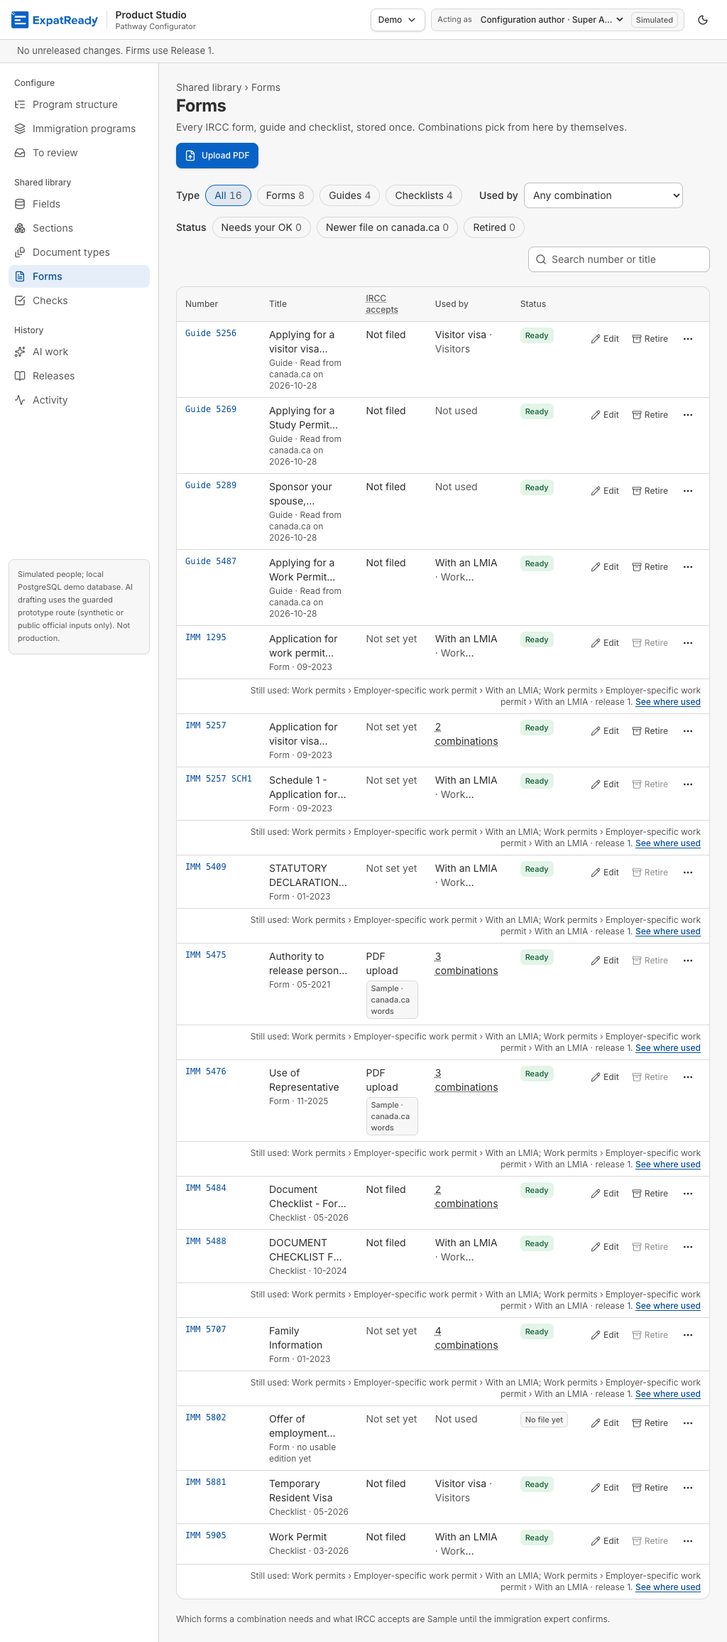
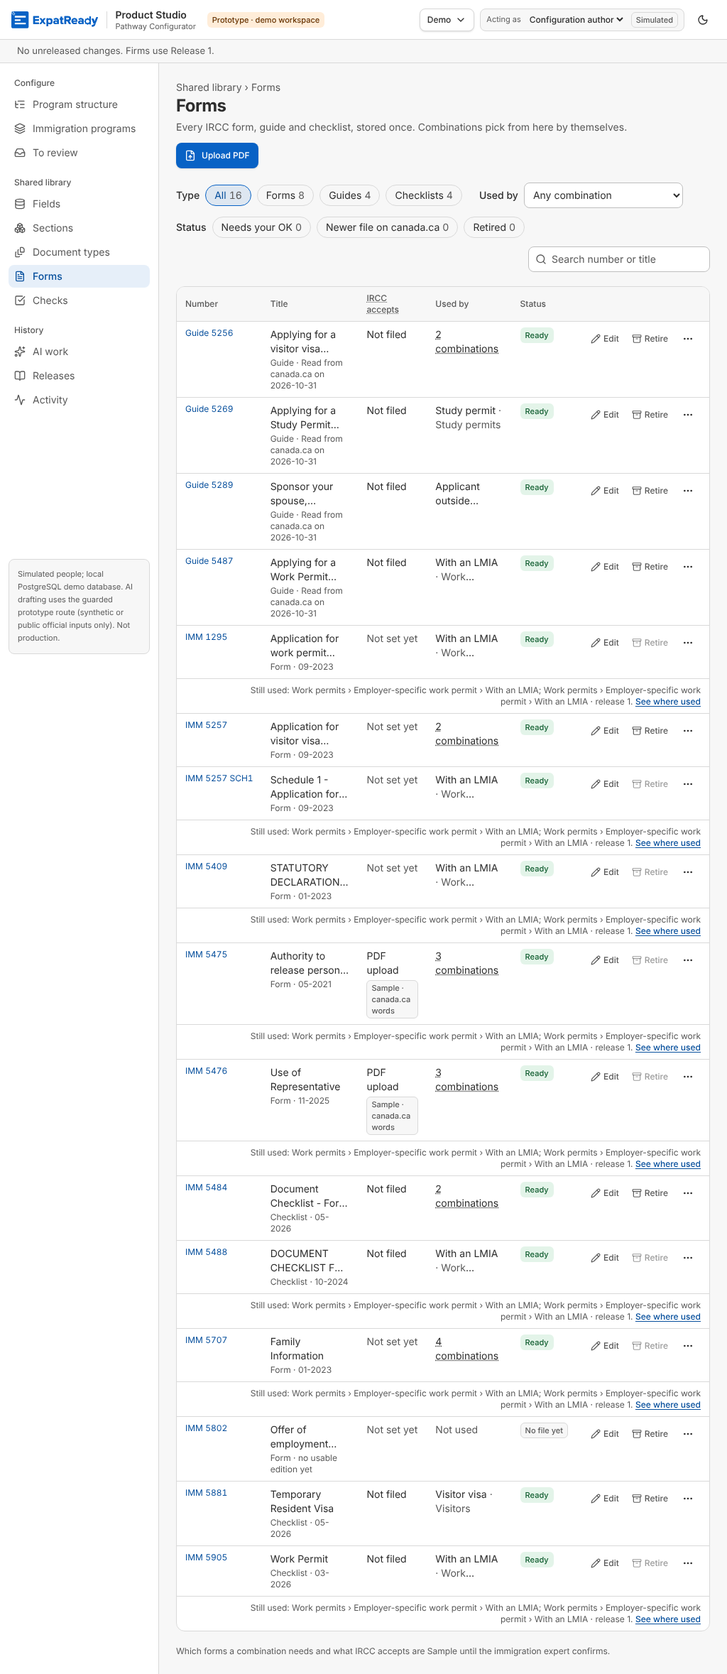
forms: N8 — DV-d1-1 Used-by count, DV-d1-2 loading list role, F2 official-pages confirm (new table)
* DV-d1-1 (Devin D1): "2 combinations" in Shared library › Forms › Used by read as struck through (a dotted underline).
  It is a link-style button now (solid underline on hover, like Number), opening the form's drawer; the names stay in
  its tip.
* DV-d1-2 (Devin D1): the loading list was a div with aria-label and no role (axe aria-prohibited-attr while the list
  loads, hence 1440 px only): role="status", aria-busy.
* F2 (setup checklist step 1, P-156 (2), P-176, plan.md W1-setup-checklist): a combination's official page. The rules
  propose from what is attached (one IRCC apply page "Web page" → confirm_pages on the author's tier; none or several,
  or another page chosen → choose_pages on the expert's tier; guide web pages may be chosen; PDF office instructions are
  not pages). GET /combinations/:id/official-pages; POST …/official-pages/confirm stores which page, who and the tier,
  refused by engine/setup-checklist.ts mayAct (403 in words), audited. officialPagesOf (programs.ts) now reads it, so the
  checklist's step 1 shows Confirm/Choose and turns done once confirmed. New table combination_official_pages (only
  confirmations are stored; the proposal is worked out on read, so no back-fill and nothing to go stale); demo reset
  clears it.
Checks: check_official_pages 25/25 (new), check_forms_s4_library_browser 73/73 (DV-d1 steps fail on the old page),
check_setup_checklist 54/54, check_screen01_rules 67/67, check_screen01_api 135/135, graph G1–G6 unchanged. US$0.
[…]

diff --git a/ai-workers/problem-1-pathway-setup-and-form-filling/prototype/studio/tests/check_official_pages.ts b/ai-workers/problem-1-pathway-setup-and-form-filling/prototype/studio/tests/check_official_pages.ts
@@ -1,0 +1,84 @@
+// F2 (forms lane, N8; P-156 (2), P-176, P-161 (3); C11.10 step 1): a combination's official page. The rules propose from
+// what is attached (one apply page → the configuration author confirms; none or several → the immigration expert chooses);
+// POST /combinations/:id/official-pages/confirm stores who confirmed which page and on which tier, refused by the setup
+// checklist's own duty rule; the checklist (GET /combinations/:id/summary, the catalogue) reads it. A passing and a failing
+// case per rule, on an isolated copy with the sample loaded. No AI (US$0).
+//   zsh studio/tools/isolated.sh forms_op 4450 start && tsx studio/tests/check_official_pages.ts 4450 xr_studio_forms_op
+import { execFileSync } from "node:child_process";
+import { confirmationOf, officialPagesFrom } from "../engine/official-pages.ts";
+
+const PORT = Number(process.argv[2] ?? 4450), DB = process.argv[3] ?? "xr_studio_forms_op";
+let pass = 0, fail = 0;
+const ok = (name: string, c: unknown, detail?: unknown) => { c ? pass++ : fail++; console.log(`${c ? "PASS" : "FAIL"}  ${name}${!c && detail !== undefined ? ` — ${JSON.stringify(detail).slice(0, 300)}` : ""}`); };
+type Res = { status: number; body: any }; // eslint-disable-line @typescript-eslint/no-explicit-any -- test responses are read loosely
+const call = async (method: string, path: string, body?: unknown, actor: string | null = "user-A"): Promise<Res> => {
+  const r = await fetch(`http://localhost:${PORT}/api${path}`, { method, headers: { ...(actor ? { "x-actor": actor } : {}), "content-type": "application/json" }, body: body === undefined ? undefined : JSON.stringify(body) });
+  const t = await r.text(); let j: unknown = t; try { j = JSON.parse(t); } catch { /* not JSON */ }
+  return { status: r.status, body: j };
+};
+const sql = (q: string) => execFileSync("/opt/homebrew/opt/postgresql@18/bin/psql", [`postgresql://xr_studio@127.0.0.1:54329/${DB}`, "-Atc", q], { encoding: "utf8" }).trim();
+const msg = (r: Res) => String(r.body?.detail ?? r.body?.message ?? "");
+
+(async () => {
+  // ── the rule, pure
+  const web = (id: string) => ({ id, kind: "Web page", title: id, file: `${id}.html` });
+  ok("C11.10 F2 pass: no page attached → no record yet", officialPagesFrom([{ id: "f", kind: "Form", title: "IMM 5257", file: "imm5257e.pdf" }], null).state === "no_record");
+  ok("C11.10 F2 fail: an office's PDF instructions are not a page (still no record)", officialPagesFrom([{ id: "i", kind: "Instructions", title: "IMM 5905", file: "IMM5905E.pdf" }], null).state === "no_record");
+  const one = officialPagesFrom([web("a"), { id: "g", kind: "Instructions", title: "Guide", file: "guide.html" }], null);
+  ok("C11.10 F2 pass: one apply page → proposed, 1 match (the author's to confirm)", one.state === "proposed" && one.matches === 1 && confirmationOf([web("a")], "a").tier === "author" && confirmationOf([web("a")], "a").kind === "confirm_pages");
+  ok("C11.10 F2 fail: two apply pages → the expert chooses (choose_pages, expert tier)", confirmationOf([web("a"), web("b")], "a").tier === "expert" && confirmationOf([web("a"), web("b")], "a").kind === "choose_pages");
+  ok("C11.10 F2 fail: the rules' one match passed over for another page → the expert's choice", confirmationOf([web("a"), { id: "g", kind: "Instructions", title: "Guide", file: "guide.html" }], "g").tier === "expert");
+  ok("C11.10 F2 pass: a confirmation counts while its page is attached", officialPagesFrom([web("a")], { attachmentId: "a", confirmedBy: "user-A", confirmedAs: "author" }).state === "confirmed");
+  ok("C11.10 F2 fail: a confirmation whose page is gone counts as none (proposed again)", officialPagesFrom([web("b")], { attachmentId: "a", confirmedBy: "user-A", confirmedAs: "author" }).state === "proposed");
+
+  // ── the API on the sample (from a reset, so a run before this one leaves nothing behind)
+  await call("POST", "/demo/reset", { confirm: "RESET" });
+  await call("POST", "/demo/load");
+  const id = (key: string) => sql(`select id from combination where combination_key='${key}'`);
+  const wp = id("wp.family"), sp = id("sp.student");
+  let r = await call("GET", `/combinations/${wp}/official-pages`);
+  const match = r.body?.candidates?.find((c: any) => c.match), other = r.body?.candidates?.find((c: any) => !c.match); // eslint-disable-line @typescript-eslint/no-explicit-any
+  ok("C11.10 F2 pass: GET answers the rules' proposal (one apply page on Work permit, family) and the pages to choose from, the match first", r.status === 200 && r.body.pages.state === "proposed" && r.body.pages.matches === 1 && r.body.candidates[0].match === true && !!other && !r.body.candidates.some((c: any) => /\.pdf$/i.test(c.title) || /IMM 5905/.test(c.title)), r.body); // eslint-disable-line @typescript-eslint/no-explicit-any
+  let sum = await call("GET", `/combinations/${wp}/summary`);
+  const step1 = (s: Res) => s.body?.setup?.steps?.find((x: any) => x.key === "pages"); // eslint-disable-line @typescript-eslint/no-explicit-any
+  ok("C11.10 F2 pass: the checklist reads the record: step 1 open with 'Confirm the checklist page' (before: no record, no item)", step1(sum)?.open?.some((i: any) => i.kind === "confirm_pages" && i.tier === "author"), step1(sum)); // eslint-disable-line @typescript-eslint/no-explicit-any
+  for (const [who, name] of [["user-B", "approver"], ["user-O", "case officer"], ["user-P", "client"]]) {
+    r = await call("POST", `/combinations/${wp}/official-pages/confirm`, { attachmentId: match.id }, who);
+    ok(`C11.10 F2 fail: the ${name} cannot confirm the official page (403), nothing stored`, r.status === 403 && sql(`select count(*) from combination_official_pages where combination_id='${wp}'`) === "0", { status: r.status, m: msg(r) });
+  }
+  r = await call("POST", `/combinations/${wp}/official-pages/confirm`, { attachmentId: other.id }, "user-A");
+  ok("C11.10 F2 fail (P-176): the author cannot pass over the rules' one match for another page: that is the expert's choice (403)", r.status === 403 && /immigration expert chooses it/.test(msg(r)), { status: r.status, m: msg(r) });
+  r = await call("POST", `/combinations/${wp}/official-pages/confirm`, { attachmentId: sql(`select id from source_attachment where combination_id='${sp}' limit 1`) }, "user-A");
+  ok("C11.10 F2 fail: a page of another combination is refused (400), nothing stored", r.status === 400 && /not one of this combination's attached pages/.test(msg(r)), { status: r.status, m: msg(r) });
+  r = await call("POST", `/combinations/${wp}/official-pages/confirm`, { attachmentId: match.id, extra: 1 }, "user-A");
+  ok("C11.10 F2 fail: an unknown field or no page is refused in words (400)", r.status === 400 && /field the server does not know/.test(msg(r)) && (await call("POST", `/combinations/${wp}/official-pages/confirm`, {}, "user-A")).status === 400, msg(r));
+  r = await call("POST", `/combinations/${wp}/official-pages/confirm`, { attachmentId: match.id }, null);
+  ok("C11.10 F2 fail: nobody (no person named) cannot confirm (401)", r.status === 401, r.status);
+  r = await call("POST", `/combinations/${wp}/official-pages/confirm`, { attachmentId: match.id }, "user-A");
+  const row = sql(`select confirmed_by || '|' || confirmed_as || '|' || matches || '|' || attachment_id from combination_official_pages where combination_id='${wp}'`);
+  ok("C11.10 F2 pass: the author confirms the rules' one match: stored with who, the tier (author) and the page", r.status === 201 && r.body.pages.state === "confirmed" && row === `user-A|author|1|${match.id}`, { status: r.status, row });
+  ok("C11.10 F2 pass: the confirmation is in the audit trail with the page and the tier", /confirmed the official page of .*Work permit outside: forms and documents page.*configuration author tier, sure/.test(sql(`select summary from audit_event where action='confirmed' and entity='official page' and entity_key='${wp}'`)));
+  sum = await call("GET", `/combinations/${wp}/summary`);
+  ok("C11.10 F2 pass: step 1 is done on the checklist, confirmed by the author tier", step1(sum)?.state === "done" && step1(sum)?.confirmed?.as === "author" && !step1(sum)?.open?.length, step1(sum));
+  // The expert's choice where the rules are not sure.
+  r = await call("GET", `/combinations/${sp}/official-pages`);
+  const spPage = r.body?.candidates?.[0];
+  ok("C11.10 F2 pass: no apply page on Study permit → proposed with 0 matches, the expert's item on the checklist", r.body?.pages?.state === "proposed" && r.body.pages.matches === 0 && step1(await call("GET", `/combinations/${sp}/summary`))?.open?.some((i: any) => i.kind === "choose_pages" && i.tier === "expert"), r.body); // eslint-disable-line @typescript-eslint/no-explicit-any
+  r = await call("POST", `/combinations/${sp}/official-pages/confirm`, { attachmentId: spPage.id }, "user-A");
+  ok("C11.10 F2 fail (P-176): the author cannot choose where the rules are not sure (403, nothing stored)", r.status === 403 && sql(`select count(*) from combination_official_pages where combination_id='${sp}'`) === "0", { status: r.status, m: msg(r) });
+  r = await call("POST", `/combinations/${sp}/official-pages/confirm`, { attachmentId: spPage.id }, "user-C");
+  ok("C11.10 F2 pass: the immigration expert chooses it: stored on the expert tier", r.status === 201 && sql(`select confirmed_by || '|' || confirmed_as || '|' || matches from combination_official_pages where combination_id='${sp}'`) === "user-C|expert|0", { status: r.status, m: msg(r) });
+  // A confirmed page removed from the combination: the record no longer counts.
+  sql(`delete from source_attachment where id='${match.id}'`);
+  r = await call("GET", `/combinations/${wp}/official-pages`);
+  ok("C11.10 F2 fail: once the confirmed page is no longer attached, step 1 is open again (never confirmed on a missing page)", r.body?.pages?.state === "proposed" && r.body.record === null, r.body?.pages);
+  r = await call("GET", "/combinations/00000000-0000-0000-0000-000000000000/official-pages");
+  ok("C11.10 F2 fail: an unknown combination is 404", r.status === 404, r.status);
+  // A demo reset clears the records.
+  const before = sql("select count(*) from combination_official_pages");
+  r = await call("POST", "/demo/reset", { confirm: "RESET" });
+  ok("C11.10 F2 pass: a demo reset clears the confirmations", before === "2" && r.status < 300 && sql("select count(*) from combination_official_pages") === "0", { before, status: r.status, m: msg(r) });
+  await call("POST", "/demo/load");
+  console.log(`\n${pass} passed, ${fail} failed`);
+  process.exit(fail ? 1 : 0);
+})().catch((e) => { console.log(`FAIL  the check stopped: ${(e as Error).stack}`); process.exit(1); });

diff --git a/ai-workers/problem-1-pathway-setup-and-form-filling/prototype/studio/api/src/official-pages.ts b/ai-workers/problem-1-pathway-setup-and-form-filling/prototype/studio/api/src/official-pages.ts
@@ -1,0 +1,79 @@
+// F2 (forms lane, N8; P-156 (2), P-176; setup checklist step 1): a combination's official page. GET answers the rules'
+// proposal and the pages a person may choose; POST …/confirm stores who confirmed which page and on which tier, refused by
+// the checklist's own duty rule (engine/setup-checklist.ts mayAct): the rules' one match is the author's (or the expert's),
+// any other choice the immigration expert's alone. officialPagesOf is the one reader the checklist uses. US$0, no AI.
+import { Body, Controller, Get, Headers, HttpException, HttpStatus, Inject, Injectable, Param, Post } from "@nestjs/common";
+import { z } from "zod";
+import { confirmationOf, isApplyPage, isPage, officialPagesFrom, type PageSource } from "../../engine/official-pages.ts";
+import { mayAct, type OfficialPages } from "../../engine/setup-checklist.ts";
+import type { Tier } from "../../contracts/setup-checklist.ts";
+import { actorOf, Audit, Db, Workspace, type Actor } from "./core.ts";
+
+type H = string | undefined;
+const problem = (status: number, title: string, detail: string) =>
+  new HttpException({ type: `https://expatready.local/problems/${title.toLowerCase().replace(/[^a-z]+/g, "-")}`, title, status, detail }, status);
+
+export const ConfirmPages = z.strictObject({ attachmentId: z.string({ error: "Choose the page to confirm." }).uuid("Choose one of this combination's pages.") }, { error: (i) => (i.code === "unrecognized_keys" ? "This confirmation carries a field the server does not know." : undefined) });
+
+const sourceOf = (a: { id: string; kind: string; edition: string | null; fileName: string }): PageSource => ({ id: a.id, kind: a.kind, title: a.edition ?? a.fileName, file: a.fileName });
+
+/** Step 1 for each combination, read from its attached pages and its stored confirmation (one query each). */
+export async function officialPagesOf(db: Pick<Db, "sourceAttachment" | "officialPagesRecord">, ids: string[]): Promise<Map<string, OfficialPages>> {
+  if (!ids.length) return new Map();
+  const [atts, recs] = await Promise.all([
+    db.sourceAttachment.findMany({ where: { combinationId: { in: ids }, kind: { in: ["Web page", "Instructions"] } }, select: { id: true, combinationId: true, kind: true, edition: true, fileName: true } }),
+    db.officialPagesRecord.findMany({ where: { combinationId: { in: ids } } }),
+  ]);
+  const by = new Map<string, PageSource[]>();
+  for (const a of atts) by.set(a.combinationId, [...(by.get(a.combinationId) ?? []), sourceOf(a)]);
+  const rec = new Map(recs.map((r) => [r.combinationId, { attachmentId: r.attachmentId, confirmedBy: r.confirmedBy, confirmedAs: r.confirmedAs as Tier }]));
+  return new Map(ids.map((id) => [id, officialPagesFrom(by.get(id) ?? [], rec.get(id) ?? null)]));
+}
+
+@Injectable()
+export class OfficialPagesService {
+  constructor(@Inject(Db) private readonly db: Db, @Inject(Audit) private readonly audit: Audit, @Inject(Workspace) private readonly ws: Workspace) {}
+
+  private async load(combinationId: string) {
+    const workspaceId = await this.ws.id();
+    const c = await this.db.combination.findFirst({ where: { id: combinationId, workspaceId }, select: { id: true, label: true, attachments: { select: { id: true, kind: true, edition: true, fileName: true }, orderBy: { createdAt: "asc" } } } });
+    if (!c) throw problem(404, "Not found", "This combination no longer exists.");
+    const sources = c.attachments.map(sourceOf).filter(isPage);
+    const record = await this.db.officialPagesRecord.findUnique({ where: { combinationId } });
+    return { workspaceId, c, sources, record };
+  }
+
+  /** GET: the step's state, the pages a person may choose (the rules' matches first) and the stored confirmation. */
+  async get(combinationId: string) {
+    const { sources, record } = await this.load(combinationId);
+    const pages = officialPagesFrom(sources, record ? { attachmentId: record.attachmentId, confirmedBy: record.confirmedBy, confirmedAs: record.confirmedAs as Tier } : null);
+    return { pages, candidates: [...sources.filter(isApplyPage), ...sources.filter((s) => !isApplyPage(s))].map((s) => ({ ...s, match: isApplyPage(s), confirmed: pages.state === "confirmed" && record?.attachmentId === s.id })), record: pages.state === "confirmed" ? record : null };
+  }
+
+  /** POST confirm: one page of this combination, by a person whose duty covers the item (P-176), stored with the tier. */
+  async confirm(actor: Actor, combinationId: string, body: unknown) {
+    const b = ConfirmPages.safeParse(body ?? {});
+    if (!b.success) throw problem(400, "Not confirmed", b.error.issues[0]?.message ?? "Choose the page to confirm.");
+    const { workspaceId, c, sources } = await this.load(combinationId);
+    const page = sources.find((s) => s.id === b.data.attachmentId);
+    if (!page) throw problem(400, "Not one of its pages", "That is not one of this combination's attached pages (an IRCC apply page or a guide page). Choose one of them.");
+    const item = confirmationOf(sources, page.id);
+    if (!mayAct({ kind: item.kind, tier: item.tier }, { id: actor.id, duties: actor.duties as readonly string[] })) {
+      throw problem(403, "Not yours to confirm", item.tier === "author"
+        ? `${actor.name} (simulated) cannot confirm the official page: the configuration author or the immigration expert confirms it.`
+        : `The rules did not find exactly one apply page here (${item.matches ? `${item.matches} match` : "none matches"}${item.matches === 1 ? ", and another page was chosen" : ""}), so the immigration expert chooses it (P-176). ${actor.name} (simulated) does not hold that duty.`);
+    }
+    const data = { attachmentId: page.id, matches: item.matches, confirmedBy: actor.id, confirmedAs: item.tier, confirmedAt: new Date() };
+    const saved = await this.db.officialPagesRecord.upsert({ where: { combinationId }, create: { workspaceId, combinationId, ...data }, update: data });
+    await this.audit.log(workspaceId, actor.id, "confirmed", "official page", combinationId, `${actor.name} confirmed the official page of "${c.label}": ${page.title} (${item.tier === "author" ? "the rules found exactly this page; configuration author tier, sure" : `chosen by the immigration expert${item.matches === 1 ? " over the rules' one match" : item.matches ? ` among ${item.matches} matches` : "; the rules found no apply page"}; not sure`})`, { attachment_id: page.id, matches: item.matches, confirmed_as: item.tier }, combinationId);
+    return { pages: { state: "confirmed" as const, by: saved.confirmedBy, as: saved.confirmedAs as Tier }, record: saved };
+  }
+}
+
+@Controller("api")
+export class OfficialPagesController {
+  constructor(@Inject(OfficialPagesService) private readonly s: OfficialPagesService) {}
+  @Get("combinations/:id/official-pages") get(@Param("id") id: string) { return this.s.get(id); }
+  @Post("combinations/:id/official-pages/confirm") confirm(@Headers("x-actor") a: H, @Param("id") id: string, @Body() b: unknown) { return this.s.confirm(actorOf(a), id, b); }
+}
+

diff --git a/ai-workers/problem-1-pathway-setup-and-form-filling/prototype/studio/web/src/pages/library-forms.tsx b/ai-workers/problem-1-pathway-setup-and-form-filling/prototype/studio/web/src/pages/library-forms.tsx
@@ -111,7 +111,7 @@ export function FormsPage() {
           </div>
           <label className="relative ml-auto"><Search className="pointer-events-none absolute left-2.5 top-2.5 size-4 text-text-muted" aria-hidden /><Input type="search" aria-label="Search number or title" placeholder="Search number or title" value={q} maxLength={80} onChange={(e) => setQ(e.target.value)} className="w-64 pl-8" /></label>
         </div>
-        {lib.isLoading ? <div className="space-y-2" aria-label="Loading forms">{[0, 1, 2, 3].map((i) => <Skeleton key={i} className="h-10 w-full" />)}</div>
+        {lib.isLoading ? <div className="space-y-2" role="status" aria-busy="true" aria-label="Loading forms">{/* DV-d1-2 (N8): a label needs a role (axe aria-prohibited-attr) */}{[0, 1, 2, 3].map((i) => <Skeleton key={i} className="h-10 w-full" />)}</div>
           : lib.isError ? <Notice tone="danger" title="The forms could not be loaded" action={<Button size="sm" variant="secondary" onClick={() => void lib.refetch()}>Try again</Button>}>{(lib.error as Error).message}</Notice>
           : !lib.data?.rows.length ? (filtered
             ? <EmptyState title="No form matches" description="Nothing in the library matches these filters. Clear a filter or search for another number or title." action={<Button variant="secondary" onClick={() => { setType(""); setUsedBy(""); setStatus(""); setQ(""); }}>Clear filters</Button>} />
@@ -126,7 +126,7 @@ export function FormsPage() {
                   <td className="hidden xl:table-cell">{TYPE_WORD[r.type]}</td>
                   <td className="hidden xl:table-cell">{editionText(r) ?? <span className="text-text-muted">no usable edition yet</span>}</td>
                   <td className="max-w-36 xl:max-w-none"><AcceptsCell r={r} /></td>
-                  <td className="max-w-48 xl:max-w-72">{r.used_by.length === 0 ? <span className="text-text-muted">Not used</span> : r.used_by.length === 1 ? <TrailText label={r.used_by[0].label} /> : <Tip tip={r.used_by.map((u) => u.label).join(", ")}><span tabIndex={0} className="underline decoration-dotted rounded outline-none focus-visible:ring-[3px] focus-visible:ring-ring/50">{r.used_by.length} combinations</span></Tip>}</td>
+                  <td className="max-w-48 xl:max-w-72">{r.used_by.length === 0 ? <span className="text-text-muted">Not used</span> : r.used_by.length === 1 ? <TrailText label={r.used_by[0].label} /> : <Tip tip={r.used_by.map((u) => u.label).join(", ")}>{/* DV-d1-1 (N8): a count a person trusts at a glance: a plain link-style button (opens where it is used), never a dotted line that reads as struck through */}<button type="button" data-used-by-count className="rounded text-text-link underline-offset-2 hover:underline outline-none focus-visible:ring-[3px] focus-visible:ring-ring/50" onClick={() => setOpen(r)}>{r.used_by.length} combinations</button></Tip>}</td>
                   <td><span className="inline-flex flex-wrap gap-1"><Tip tip={STATUS[r.status].tip}><span tabIndex={0} className="rounded outline-none focus-visible:ring-[3px] focus-visible:ring-ring/50"><Pill tone={STATUS[r.status].tone}>{STATUS[r.status].word}</Pill></span></Tip>{r.lifecycle_waiting && r.lifecycle_returned ? <Tip tip={TIP.returned}><span tabIndex={0} className="rounded outline-none focus-visible:ring-[3px] focus-visible:ring-ring/50"><Pill tone="danger">{RETURNED_LABEL[r.lifecycle_waiting]}</Pill></span></Tip> : r.lifecycle_waiting ? <Tip tip={r.lifecycle_approved ? `Approved: the form is ${r.lifecycle_waiting === "RESTORE" ? "restored" : "retired"} with the next release (Release, on the combination's Review page).` : `A request to ${r.lifecycle_waiting.toLowerCase()} this form waits for a second person on To review.`}><span tabIndex={0} className="rounded outline-none focus-visible:ring-[3px] focus-visible:ring-ring/50"><Pill tone="warn">{r.lifecycle_approved ? `${ACTION_LABEL[r.lifecycle_waiting]} approved` : WAITING_LABEL[r.lifecycle_waiting]}</Pill></span></Tip> : null}</span></td>
                   <td className="text-right">
                     <div className="flex items-center justify-end gap-0.5">

diff --git a/ai-workers/problem-1-pathway-setup-and-form-filling/prototype/studio/engine/official-pages.ts b/ai-workers/problem-1-pathway-setup-and-form-filling/prototype/studio/engine/official-pages.ts
@@ -1,0 +1,34 @@
+// F2 (forms lane, N8; P-156 (2), P-176, P-161 (3)): step 1 of the setup checklist, a combination's official page. Pure (no
+// I/O). The rules propose from what is attached: the combination's IRCC apply page is an attached canada.ca "Web page".
+// Exactly one such page: the configuration author confirms it (sure; the expert may too). None or several: the immigration
+// expert chooses one (not sure), from the attached pages (an apply page or a guide page). Only the confirmation is stored
+// (api/src/official-pages.ts); a confirmation whose page is no longer attached counts as none.
+import type { OfficialPages } from "./setup-checklist.ts";
+import type { ItemKind, Tier } from "../contracts/setup-checklist.ts";
+
+/** What the rules match: an IRCC apply page (application package or forms-and-documents page). */
+export const APPLY_PAGE_KINDS = ["Web page"] as const;
+/** What a person may choose as the official page: an apply page, or a guide's web page (kind Instructions, an HTML file;
+ *  an office's PDF instructions are not a page). */
+export const PAGE_KINDS = ["Web page", "Instructions"] as const;
+
+export type PageSource = { id: string; kind: string; title: string; file: string };
+export type PagesRecord = { attachmentId: string; confirmedBy: string; confirmedAs: Tier } | null;
+
+export const isApplyPage = (s: Pick<PageSource, "kind">) => (APPLY_PAGE_KINDS as readonly string[]).includes(s.kind);
+export const isPage = (s: Pick<PageSource, "kind" | "file">) => isApplyPage(s) || (s.kind === "Instructions" && /\.html?$/i.test(s.file));
+
+/** Step 1's state for one combination: confirmed (its page still attached), proposed (pages attached; `matches` apply
+ *  pages found by the rules), or no record (no page attached yet). */
+export function officialPagesFrom(sources: PageSource[], record: PagesRecord): OfficialPages {
+  if (record && sources.some((s) => s.id === record.attachmentId && isPage(s))) return { state: "confirmed", by: record.confirmedBy, as: record.confirmedAs };
+  if (!sources.some(isPage)) return { state: "no_record" };
+  return { state: "proposed", matches: sources.filter(isApplyPage).length };
+}
+
+/** The item a confirmation acts on (P-176): the rules' one match confirmed → `confirm_pages` on the author's tier; any
+ *  other page, or a choice among none or several → `choose_pages` on the expert's tier. The API refuses with mayAct. */
+export function confirmationOf(sources: PageSource[], attachmentId: string): { kind: ItemKind; tier: Tier; matches: number } {
+  const matches = sources.filter(isApplyPage);
+  return matches.length === 1 && matches[0].id === attachmentId ? { kind: "confirm_pages", tier: "author", matches: 1 } : { kind: "choose_pages", tier: "expert", matches: matches.length };
+}

diff --git a/ai-workers/problem-1-pathway-setup-and-form-filling/prototype/studio/api/src/main.ts b/ai-workers/problem-1-pathway-setup-and-form-filling/prototype/studio/api/src/main.ts
@@ -3,6 +3,7 @@
 import { FactSources, FactSourcesController } from "./fact-sources.ts";
 import { PersonChecklists, PersonChecklistsController } from "./person-checklist.ts";
 import { WhoFills, WhoFillsController } from "./who-fills.ts";
+import { OfficialPagesController, OfficialPagesService } from "./official-pages.ts";
 import "reflect-metadata";
 import { oneAtATime } from "./form-uses.ts";
 import { Body, Catch, Controller, Delete, Get, Headers, HttpException, Inject, Module, Param, Patch, Post, Query, Res, UploadedFiles, UseInterceptors, type ArgumentsHost, type ExceptionFilter } from "@nestjs/common";
@@ -172,7 +173,7 @@ class ProblemErrors implements ExceptionFilter {
   }
 }
 
-@Module({ controllers: [StudioController, SourcesController, DemoController, AiController, ProgramsController, FormsController, RuntimeController, CaseFormsController, ReviewQueueController, Screen02Controller, ReviewProposalsController, ChecklistsController, StructureController, FormLibraryController, RunsController, WorkspaceController, FactSourcesController, StartSetupController, PersonChecklistsController, WhoFillsController, LibrarySourcesController], providers: [FactSources, PersonChecklists, WhoFills, LibrarySources, { provide: APP_GUARD, useClass: ConfigReadGuard }, WorkspaceViews, PeopleFromGuide, Db, Workspace, Audit, StartSetup, Studio, Sources, Intake, Fill, Demo, Ai, Programs, Forms, Runtime, CaseForms, ReviewQueueService, Screen02, ReviewProposals, Impact, Checklists, Lifecycle, Structure, Finder, FormLibrary, UploadRuns, Runs] })
+@Module({ controllers: [StudioController, SourcesController, DemoController, AiController, ProgramsController, FormsController, RuntimeController, CaseFormsController, ReviewQueueController, Screen02Controller, ReviewProposalsController, ChecklistsController, StructureController, FormLibraryController, RunsController, WorkspaceController, FactSourcesController, StartSetupController, PersonChecklistsController, WhoFillsController, LibrarySourcesController, OfficialPagesController], providers: [OfficialPagesService, FactSources, PersonChecklists, WhoFills, LibrarySources, { provide: APP_GUARD, useClass: ConfigReadGuard }, WorkspaceViews, PeopleFromGuide, Db, Workspace, Audit, StartSetup, Studio, Sources, Intake, Fill, Demo, Ai, Programs, Forms, Runtime, CaseForms, ReviewQueueService, Screen02, ReviewProposals, Impact, Checklists, Lifecycle, Structure, Finder, FormLibrary, UploadRuns, Runs] })
 class AppModule {}
 
 async function main() {

diff --git a/ai-workers/problem-1-pathway-setup-and-form-filling/prototype/studio/api/src/programs.ts b/ai-workers/problem-1-pathway-setup-and-form-filling/prototype/studio/api/src/programs.ts
@@ -23,6 +23,7 @@ import { readFileSync } from "node:fs";
 import { join, resolve } from "node:path";
 import { ACTORS, Audit, Db, need, ROOT, Workspace, type Actor } from "./core.ts";
 import { addFormLine } from "./form-lines.ts";
+import { officialPagesOf as readOfficialPages } from "./official-pages.ts";
 import { changeView, itemsOf, unapprovedAdds, unapprovedWhy } from "./library-changes.ts";
 import { openNodeKeys, startWhy } from "./lifecycle.ts";
 import { Sources } from "./sources.ts";
@@ -47,11 +48,8 @@ type Row = {
   setup: SetupChecklist;
 };
 
-/** The official-pages record of each combination (P-156 (2)), the forms lane's queue item 2. It has not landed: every
- *  combination answers "no record yet", so step 1 stays open with no item (plan.md slice A). One reader, one place. */
-export async function officialPagesOf(ids: string[]): Promise<Map<string, OfficialPages>> {
-  return new Map(ids.map((id) => [id, { state: "no_record" as const }]));
-}
+/** The official-pages record of each combination (P-156 (2)): the forms lane's reader (F2, api/src/official-pages.ts). */
+export const officialPagesOf = (db: Db, ids: string[]): Promise<Map<string, OfficialPages>> => readOfficialPages(db, ids);
 /** The card's part of the checklist with this viewer's overlay (GET /catalogue: steps without their open items). */
 export function cardSetup(c: SetupChecklist, actor: Actor): CardSetup {
   return { chip: c.chip, bar: c.bar, next: c.next, current: c.current, viewer: forViewer(c, actor), steps: c.steps.map(({ open: _open, ...s }) => s) };
@@ -117,7 +115,7 @@ export class Programs {
     ]);
     const submittedBy = new Map<string, string>();
     for (const x of subs) if (!submittedBy.has(x.combinationId)) submittedBy.set(x.combinationId, x.submittedBy);
-    const pages = await officialPagesOf(combos.map((c) => c.id));
+    const pages = await officialPagesOf(this.db, combos.map((c) => c.id));
     // "New today": made by a person in the last day, after the sample load (the loader's own nodes are not new).
     const loadedAt = (await this.db.auditEvent.findFirst({ where: { workspaceId, action: "loaded" }, orderBy: { at: "desc" }, select: { at: true } }))?.at.getTime() ?? 0;
     const snaps = combos.length ? await buildSnapshots(this.db, workspaceId, combos.map((c) => c.id), "draft") : new Map();

diff --git a/ai-workers/problem-1-pathway-setup-and-form-filling/prototype/studio/api/src/demo.ts b/ai-workers/problem-1-pathway-setup-and-form-filling/prototype/studio/api/src/demo.ts
@@ -186,6 +186,7 @@ export class Demo {
       await tx.sampleFact.deleteMany({ where: ws }); await tx.sampleProfile.deleteMany({ where: ws }); await tx.generatedArtifact.deleteMany({ where: ws }); await tx.auditEvent.deleteMany({ where: ws });
       await tx.portalCapture.deleteMany({ where: ws }); await tx.answerList.deleteMany({ where: ws }); await tx.fieldMerge.deleteMany({ where: ws }); // F1 (forms lane)
       await tx.libraryChange.deleteMany({ where: ws }); await tx.approvedSource.deleteMany({ where: ws }); // Screen 02 slice 2
+      await tx.officialPagesRecord.deleteMany({ where: ws }); // F2 (forms lane, N8)
       await tx.recaptureTask.deleteMany({ where: ws }); await tx.extensionSession.deleteMany({ where: ws }); await tx.extensionPairing.deleteMany({ where: ws }); // F2 (forms lane, parked by W1-02): the browser extension's tasks, sessions and codes left from before the park; a reset signs every extension out
       await tx.personRole.deleteMany({ where: ws }); // S5 (Lead check L9): person roles have no foreign key to the workspace
       await tx.workspace.delete({ where: { id: workspaceId } });
